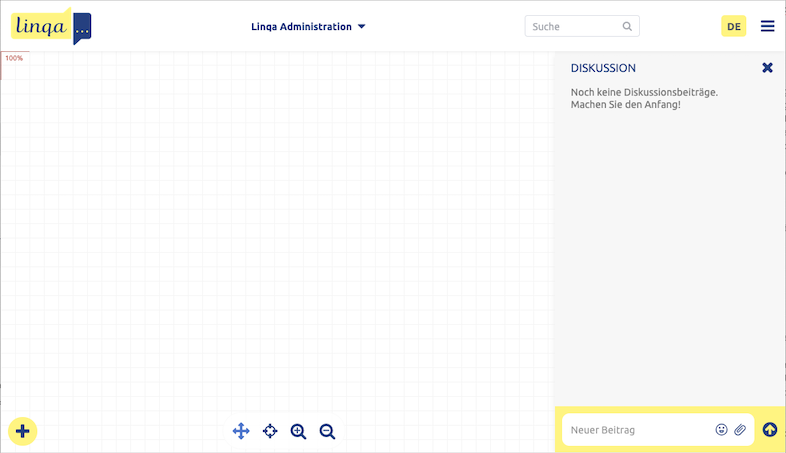
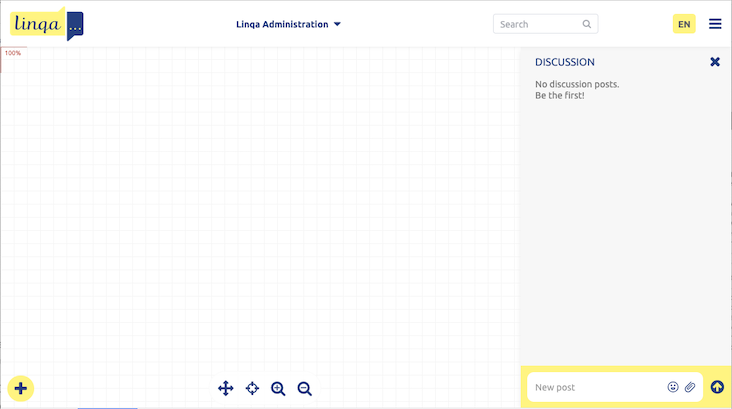
README: add "Create Linqa administrator"

diff --git a/README.md b/README.md
@@ -53,7 +53,7 @@ The minimum Linqa configuration consist of 2 languages and a DeepL API key. Add 
 
     ## Linqa
     dmx.linqa.lang1 = de
-    dmx.linqa.lang2 = es
+    dmx.linqa.lang2 = en
     dmx.deepl.auth_key = 16584e92-944f-38e5-a8ec-6ea0a0943f94:fx
 
 Explanation of the properties:
@@ -108,17 +108,17 @@ IMPORTANT: don't do real work in Linqa as DMX `admin` user. In particular when y
 
 ## Collaborative production setup
 
-Regarding a multi-user setup Linqa still reflects the original requirements of the [Franco-German Forum for the Future](https://df-zukunftswerk.eu). In its current form Linqa is meant to support organization-internal working groups. Except the login page the Linqa UI has no public surface. In order to access Linqa workspaces users need a Linqa account. Linqa workspaces are invitation-only. Workspaces and user accounts are created by Linqa administrators. For the account/password related workflows Linqa programmatically sends emails to users.
+Regarding a collaborative setup Linqa still reflects the original requirements of the [Franco-German Forum for the Future](https://df-zukunftswerk.eu). In its current form Linqa is meant to support organization-internal working groups. Except the login page the Linqa UI has no public surface. In order to access Linqa workspaces users need a Linqa account. Linqa workspaces are invitation-only. Workspaces and user accounts are created by Linqa administrators. For the account/password related workflows Linqa programmatically sends emails to users.
 
 Once Linqa is installed and minimum configuration is done (see above) these steps need to be done *only once*:
 
-1. Do multi-user and email configuration.
-2. Launch the Linqa UI and login as a **DMX administrator** and create a **Linqa administrator** account.
+1. Do user accounts and email configuration.
+2. Create a **Linqa administrator** account.
 3. Logout.
 
-From that moment on you're supposed to not login to Linqa as a DMX administrator anymore. For doing Linqa administration tasks login as a Linqa administrator.
+From that moment on you're supposed to not login to Linqa as a DMX administrator anymore. For doing Linqa administration tasks login as a Linqa administrator instead.
 
-### Multi-user configuration
+### User accounts and email configuration
 
 | Property                                | Required | Description |
 | --------                                | -------- | ----------- |
@@ -137,6 +137,22 @@ From that moment on you're supposed to not login to Linqa as a DMX administrator
 | dmx.linqa.digest_email_subject          | no       | Subject of digest-mails. Default is `Linqa Digest`. |
 
 After editing the config file restarting the DMX platform is required.
+
+<img src="docs/admin-menu-item.png" align="right">
+
+### Create Linqa administrator
+
+To create a Linqa administrator:
+
+1. Launch the Linqa UI and login as a **DMX administrator**.
+2. Choose "Administration" from the upper/right "burger" menu. The *Administration Area* shows up.
+3. At the left side click the 2nd icon (see red arrow) to open the "Users and memberships" page. All user accounts are listed. At the moment only "admin" is shown, the DMX administrator (not a Linqa user).
+4. Click the "New user" button. The "New user" shows up at the right side.
+5. Fill in the display name and email address and click the "OK" button. A *Welcome mail* is now sent containing a link to set the initial password.
+
+![admin-users-page.png](docs/admin-users-page.png)
+
+TBD
 
 ### Create users and workspaces
 
